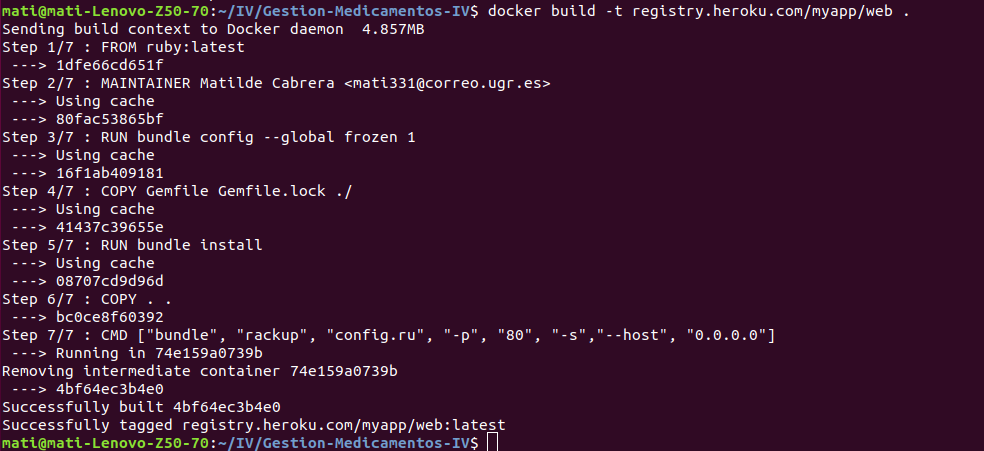
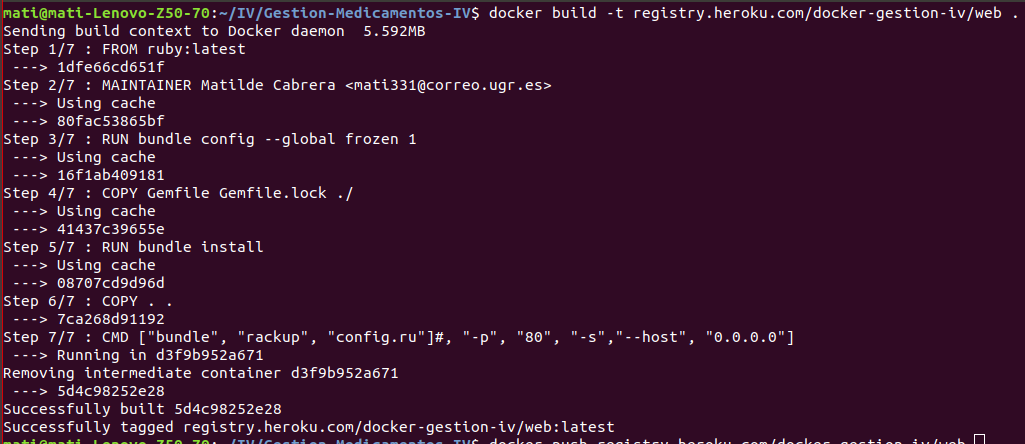
arreglo despliegue en heroku closed #25

Changed region(s): [[0.0, 0.0, 1.0, 1.0]]

diff --git a/doc/docker-heroku.md b/doc/docker-heroku.md
@@ -15,13 +15,18 @@ Usamos el token que nos da Heroku para iniciar sesión en el registro de Docker:
 
 Nota: el correo electrónico y el nombre de usuario son en realidad el guión bajo, no los cambies.
 
+Ahora nos vamos a nuestra cuenta de heroku y generamos una nueva aplicación, la nuestra le damos el nombre "docker-gestion-iv"
+
+![imagen](img/heroku-docker.png)
+
 Para finalizar subimos nuestra imagen:
 
-    docker build -t registry.heroku.com/${YOUR_APP_NAME}/web .
-    docker push registry.heroku.com/${YOUR_APP_NAME}/web
+    docker build -t registry.heroku.com/docker-gestion-iv/web .
+    docker push registry.heroku.com/docker-gestion-iv/web
+
 
 ![imagen](img/docker-build.png)
 
-![imagen](img/docker-push.png)
+![imagen](img/docker-push1.png)
 
 Comprobamos desde Heroku:

diff --git a/README.md b/README.md
@@ -65,7 +65,7 @@ Podemos añadir diferentes rutas al deploy:
 
 Nota: Si el enlace de Heroku sale Forbidden, recargar la pagina.
 
-### Docker y DockerHub
+### Docker y DockerHub [![Deploy](https://www.herokucdn.com/deploy/button.svg)](https://docker-gestion-iv.herokuapp.com)
 
 Enlace a la documentación [Docker](https://github.com/mati3/Gestion-Medicamentos-IV/blob/master/doc/docker.md) del Proyecto
 
